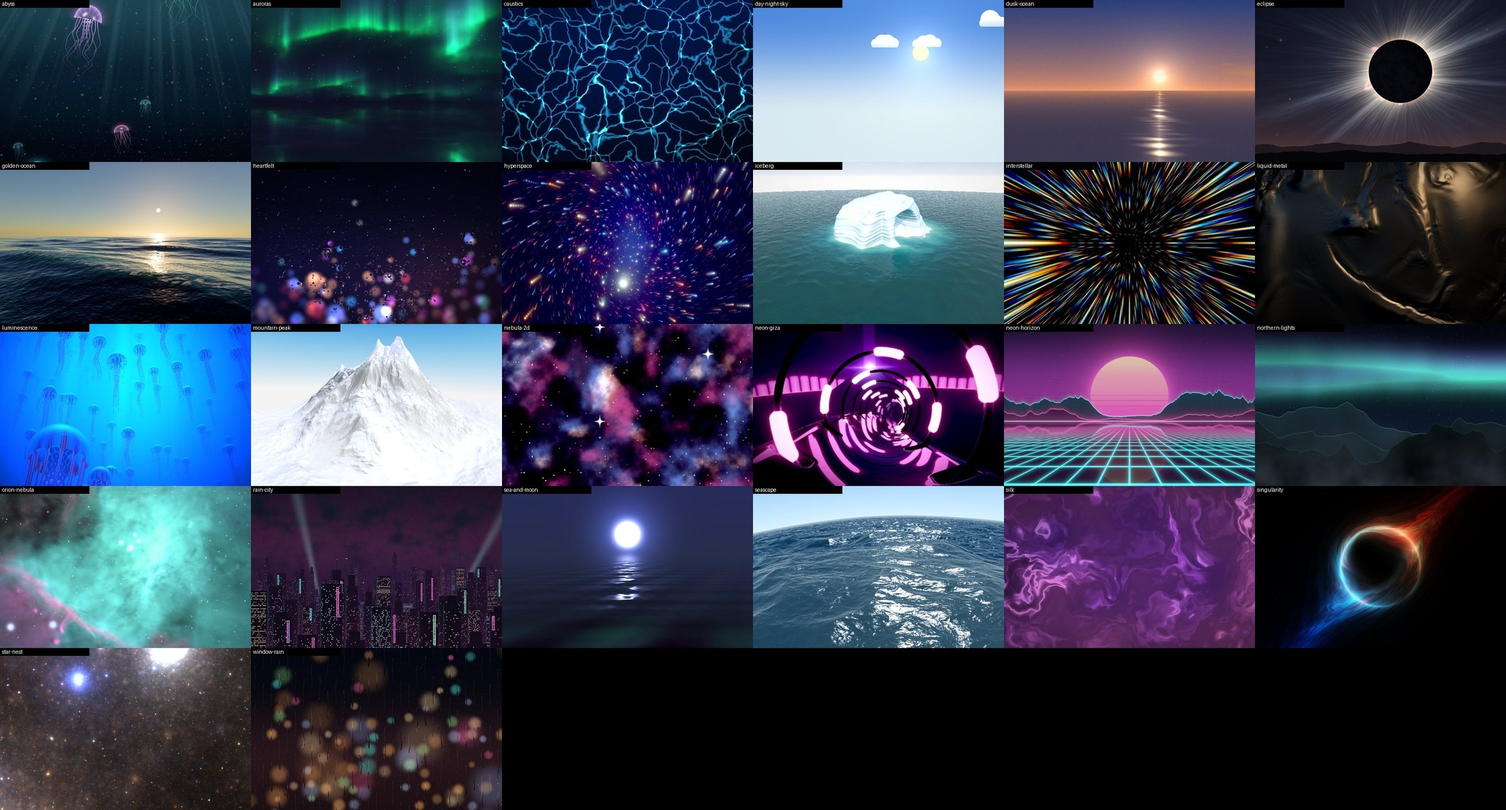
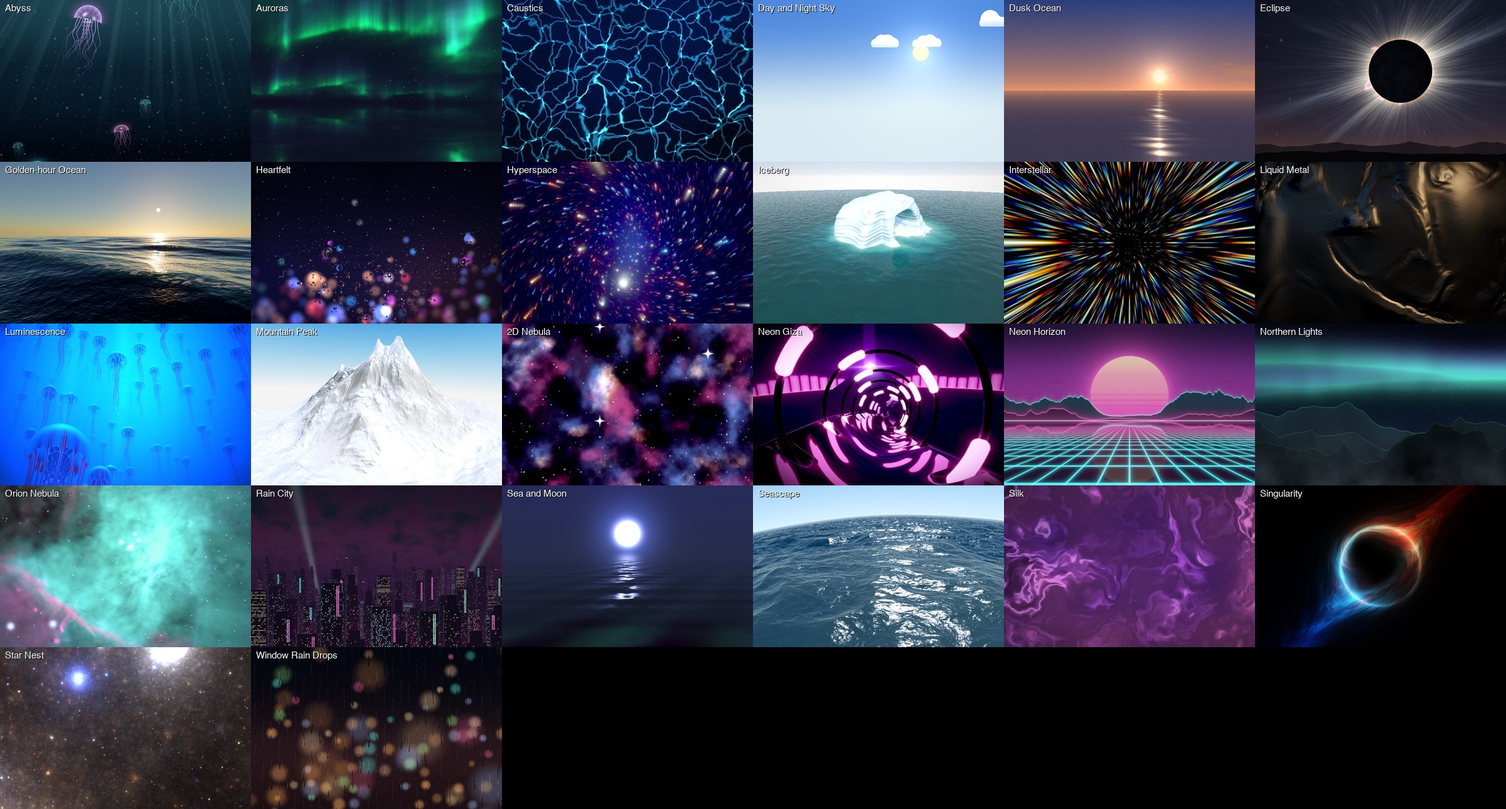
Licences: restore third-party notices and correct the record
From an audit that traced every scene's licence to its author's own
text. No scene's licence was found wrong; these are the gaps it found.

- Golden-hour Ocean: Benjamin Wrensch's MIT notice for the AgX tone-map
  fit is restored. Day and Night Sky: David Hoskins' copyright line is
  added, and the constructed copyright line is marked as such.
- The app's own sky shader uses Hoskins' hash32; it is now credited and
  his notice is in THIRD_PARTY_NOTICES.md.
- Orion Nebula is credited to Ekmel Ozdemir, who holds the copyright;
  the licence file already records how the project says it was written.
- A manifest can name other people's work inside a scene ("also"), and
  the notices list it: hashes, noise, a tone map, measured data.
- Pictures of the scenes carry the scenes' licences; the README says so
  under the contact sheet.
- The wording on the non-commercial scenes follows the licence's own
  test rather than "free and without advertising", and mentions
  share-alike. Scenes/README.md says the root MIT licence does not cover
  the scenes.
- Notes on what was changed are corrected in Neon Giza, Mountain Peak,
  Seascape, Silk, Liquid Metal, Heartfelt, Star Nest, Luminescence,
  Iceberg and Dusk Ocean.

diff --git a/scripts/update-notices.py b/scripts/update-notices.py
@@ -14,6 +14,9 @@ STYLES = [("nature", "Nature"), ("stylised", "Stylised"), ("abstract", "Abstract
 KNOWN_STYLES = {key for key, _ in STYLES}
 
 
+HOSKINS = (ROOT / "scripts" / "notices" / "hoskins-mit.txt").read_text()
+
+
 def scenes():
     found = []
     for manifest in sorted((ROOT / "Scenes").glob("*/scene.json")):
@@ -56,6 +59,20 @@ def notices(all_scenes):
         out += [f"## {title}", "", "| Scene | Author | Licence | Source |", "|---|---|---|---|"]
         out += [row(s) for s in group]
         out.append("")
+    extra = sorted((s for s in all_scenes if s.get("also")), key=lambda s: s["title"].lower())
+    if extra:
+        out += ["## Other people's work inside these scenes", "",
+                "Some scenes contain a piece by someone other than their author: a helper function, or measured data. "
+                "Each keeps its own terms, and its notice is in the scene's LICENSE file.", ""]
+        out += [f"- [{s['title']}](Scenes/{s['id']}/LICENSE): {s['also']}." for s in extra]
+        out.append("")
+    out += ["## Pictures of the scenes", "",
+            "Each scene's `preview.jpg`, and the sheet of them in `docs/library.jpg`, is a frame drawn by that scene "
+            "and is under that scene's licence. The frames of the non-commercial scenes are non-commercial too.", "",
+            "## In the app's own code", "",
+            "`Resources/Shaders.metal` uses one function, `hash32`, from \"Hash without Sine\" by David Hoskins "
+            "(https://www.shadertoy.com/view/4djSRW), under the MIT licence:", "",
+            "```", HOSKINS.rstrip(), "```", ""]
     return "\n".join(out).rstrip() + "\n"
 
 
@@ -66,9 +83,12 @@ def noncommercial(all_scenes):
            "with credit, for non-commercial purposes only, and adaptations must carry the same licence. "
            "The versions here are adaptations (ports to Metal Shading Language) offered under those same licences.",
            "",
-           "This app is free and carries no advertising, which is why it may include them. If you reuse this "
-           "project in anything commercial, build with `scripts/build-app.sh --permissive-only`, which leaves "
-           "these folders out, or delete them.", ""]
+           "The licences forbid use that is primarily intended for commercial advantage or payment. This app is "
+           "free, carries no advertising and takes no payment, and on that footing it includes them. If that "
+           "ever changes, or if you reuse this project in anything commercial, build with "
+           "`scripts/build-app.sh --permissive-only`, which leaves these folders out, or delete them. "
+           "The same goes for pictures of these scenes: each `preview.jpg` here, and their tiles in "
+           "`docs/library.jpg`, are frames drawn by the scenes and carry the same licences.", ""]
     if nc:
         out += ["| Scene | Author | Licence | Source |", "|---|---|---|---|"]
         out += [row(s).replace("](Scenes/", "](") for s in nc]

diff --git a/THIRD_PARTY_NOTICES.md b/THIRD_PARTY_NOTICES.md
@@ -20,7 +20,7 @@ The scenes below were written by other people and are included under their own l
 | [Luminescence](Scenes/luminescence/) | Martijn Steinrucken (BigWings) | `CC-BY-NC-SA-3.0` | [original](https://github.com/libretro/glsl-shaders/blob/master/procedural/bigwings-luminescence.glsl) |
 | [Mountain Peak](Scenes/mountain-peak/) | Alexander Alekseev (TDM) | `CC-BY-NC-SA-3.0` | [original](https://www.shadertoy.com/view/llK3WR) |
 | [Northern Lights](Scenes/northern-lights/) | Adil Kairolla (MacPaper Engine) | `MIT` | [original](https://github.com/adilkairolla/macpaper-engine/tree/main/Samples/Northern%20Lights.macpaper) |
-| [Orion Nebula](Scenes/orion-nebula/) | gke0op (Argus) | `MIT` | [original](https://github.com/gke0op/argus/blob/main/themes/Orion_Nebula.metal) |
+| [Orion Nebula](Scenes/orion-nebula/) | Ekmel Ozdemir (Argus) | `MIT` | [original](https://github.com/gke0op/argus/blob/main/themes/Orion_Nebula.metal) |
 | [Seascape](Scenes/seascape/) | Alexander Alekseev (TDM) | `CC-BY-NC-SA-3.0` | [original](https://www.shadertoy.com/view/Ms2SD1) |
 | [Star Nest](Scenes/star-nest/) | Pablo Roman Andrioli (Kali) | `MIT` | [original](https://www.shadertoy.com/view/XlfGRj) |
 
@@ -56,3 +56,51 @@ The scenes below were written by other people and are included under their own l
 | [Neon Horizon](Scenes/neon-horizon/) | Ilia Reingold (ShaderDesk) | `MIT` | [original](https://github.com/ilrein/shaderdesk/blob/main/Scenes/NeonHorizon.metal) |
 | [Rain City](Scenes/rain-city/) | Ilia Reingold (ShaderDesk) | `MIT` | [original](https://github.com/ilrein/shaderdesk/blob/main/Scenes/RainCity.metal) |
 | [Singularity](Scenes/singularity/) | XorDev | `MIT` | [original](https://github.com/XorDev/Singularity) |
+
+## Other people's work inside these scenes
+
+Some scenes contain a piece by someone other than their author: a helper function, or measured data. Each keeps its own terms, and its notice is in the scene's LICENSE file.
+
+- [Abyss](Scenes/abyss/LICENSE): hash functions by David Hoskins (MIT).
+- [Caustics](Scenes/caustics/LICENSE): simplex noise by Ashima Arts and Stefan Gustavson (MIT); a hash function by David Hoskins (MIT).
+- [Day and Night Sky](Scenes/day-night-sky/LICENSE): a hash function in the form of David Hoskins' (MIT).
+- [Eclipse](Scenes/eclipse/LICENSE): hash functions by David Hoskins (MIT).
+- [Golden-hour Ocean](Scenes/golden-ocean/LICENSE): the AgX tone-map fit by Benjamin Wrensch (MIT).
+- [Heartfelt](Scenes/heartfelt/LICENSE): a hash function its author credits to Dave Hoskins.
+- [Liquid Metal](Scenes/liquid-metal/LICENSE): a noise function in the manner of Inigo Quilez's (MIT).
+- [Luminescence](Scenes/luminescence/LICENSE): helpers its author credits to Dave Hoskins, Inigo Quilez and Mercury's hg_sdf.
+- [Neon Giza](Scenes/neon-giza/LICENSE): helpers by Inigo Quilez (MIT) and Sam Hocevar (WTFPL).
+- [Neon Horizon](Scenes/neon-horizon/LICENSE): hash functions by David Hoskins (MIT).
+- [Orion Nebula](Scenes/orion-nebula/LICENSE): measured data: VLT/MUSE maps, Weilbacher et al. 2015 (CC0 1.0); 3D dust map, Edenhofer et al. 2024 (CC BY 4.0); star positions from SIMBAD.
+- [Rain City](Scenes/rain-city/LICENSE): hash functions by David Hoskins (MIT).
+- [Silk](Scenes/silk/LICENSE): a domain-warp layout from an article by Inigo Quilez (MIT).
+
+## Pictures of the scenes
+
+Each scene's `preview.jpg`, and the sheet of them in `docs/library.jpg`, is a frame drawn by that scene and is under that scene's licence. The frames of the non-commercial scenes are non-commercial too.
+
+## In the app's own code
+
+`Resources/Shaders.metal` uses one function, `hash32`, from "Hash without Sine" by David Hoskins (https://www.shadertoy.com/view/4djSRW), under the MIT licence:
+
+```
+Copyright (c)2014 David Hoskins.
+
+Permission is hereby granted, free of charge, to any person obtaining a copy
+of this software and associated documentation files (the "Software"), to deal
+in the Software without restriction, including without limitation the rights
+to use, copy, modify, merge, publish, distribute, sublicense, and/or sell
+copies of the Software, and to permit persons to whom the Software is
+furnished to do so, subject to the following conditions:
+
+The above copyright notice and this permission notice shall be included in all
+copies or substantial portions of the Software.
+
+THE SOFTWARE IS PROVIDED "AS IS", WITHOUT WARRANTY OF ANY KIND, EXPRESS OR
+IMPLIED, INCLUDING BUT NOT LIMITED TO THE WARRANTIES OF MERCHANTABILITY,
+FITNESS FOR A PARTICULAR PURPOSE AND NONINFRINGEMENT. IN NO EVENT SHALL THE
+AUTHORS OR COPYRIGHT HOLDERS BE LIABLE FOR ANY CLAIM, DAMAGES OR OTHER
+LIABILITY, WHETHER IN AN ACTION OF CONTRACT, TORT OR OTHERWISE, ARISING FROM,
+OUT OF OR IN CONNECTION WITH THE SOFTWARE OR THE USE OR OTHER DEALINGS IN THE
+SOFTWARE.
+```

diff --git a/docs/SHADERS.md b/docs/SHADERS.md
@@ -34,6 +34,7 @@ The folder name is the scene's id: letters, digits, `-` and `_` only. `horizon`,
 | `style` | `nature`, `stylised`, `abstract`, `cosy` or `scifi`: the submenu it appears in. |
 | `maxFPS` | The most frames a second it is ever drawn at (1 to 60, default 20). The app lowers this itself on battery, when another app is in front, and in Low Power Mode: a scene set to 30 is drawn at 30 only while you are looking at the desktop on mains power, and at 15 behind another app. |
 | `scale` | Pixels drawn per point of screen (0.125 to 2, default 0.5). 0.5 means half the points each way, a sixteenth of a Retina display's pixels. Soft scenes look fine at 0.35 to 0.5; scenes with thin lines or small stars want 1. |
+| `also` | Optional. One line naming anyone else's work inside the scene and its terms, such as `hash functions by David Hoskins (MIT)`. It is printed in `THIRD_PARTY_NOTICES.md`; the notice itself goes in `LICENSE`. |
 | `channels` | Up to two image files in the folder, bound as `iChannel0` and `iChannel1`. Each may be at most 4096 pixels a side. A grey-scale image reads as grey in `.rgb`, as it would in GLSL. |
 
 ## The shader
@@ -130,7 +131,8 @@ At run time the app also watches each scene's real GPU time and lowers its resol
 
 ## Licences
 
-- Only bring in a scene if its author's licence lets it be redistributed, and quote that licence in `LICENSE` with a link to where it is stated. A licence on a host project's code does not cover the shaders it bundles; find the shader's own.
+- Only bring in a scene if its author's licence lets it be redistributed, and quote that licence in `LICENSE` with a link to where it is stated. A licence on a host project's code does not cover shaders that project merely collects from elsewhere; for those, find the shader's own. It does cover a shader its author wrote for that project.
 - Keep the author's header comment at the top of `main.metal`, and add a line saying what you changed.
-- On Shadertoy, a shader whose author states no licence falls under the site's default (CC BY-NC-SA 3.0). Do not rely on that default for a bundled scene; import only shaders whose own text states a licence.
+- On Shadertoy, a shader whose author states no licence is generally understood to fall under the site's default (CC BY-NC-SA 3.0). Do not rely on that default for a bundled scene; import only shaders whose own text states a licence.
+- If a shader contains a piece by someone else (a hash, a noise function, a tone map, data), keep or restore that person's notice in `LICENSE` and name it in the manifest's `also` field.
 - Non-commercial scenes are welcome. They are marked in the menu, listed in `Scenes/NONCOMMERCIAL.md`, and left out of `--permissive-only` builds.

diff --git a/README.md b/README.md
@@ -24,6 +24,8 @@ It also carries a library of 26 scenes by other authors, ported from open collec
 
 ![The 26 imported scenes](docs/library.jpg)
 
+*A frame from each scene. Every frame is under its scene's licence; the Auroras, Heartfelt, Luminescence, Mountain Peak and Seascape frames are CC BY-NC-SA 3.0.*
+
 Every one of these was written by someone else and published under a licence that allows it to be shared. Each has been ported to Metal, credited, and tuned so that it stays within this app's energy budget. They are grouped in the menu as Nature, Stylised, Abstract, Cosy and Sci-Fi; the menu shows each scene's author and licence and links to the original.
 
 [THIRD_PARTY_NOTICES.md](THIRD_PARTY_NOTICES.md) lists them all. Five may not be used commercially; see [Licences](#licences).
@@ -125,8 +127,8 @@ Bug reports, new scenes and reports from hardware that has not been tried are al
 
 ## Licences
 
-The app's own code is under the [MIT licence](LICENSE).
+The app's own code, which is everything outside `Scenes/`, is under the [MIT licence](LICENSE). That licence does not cover the scenes.
 
 The imported scenes keep their authors' licences: MIT, CC0, or Creative Commons Attribution-NonCommercial-ShareAlike. Each scene's folder under `Scenes/` holds its licence, its credit and a note of what was changed in porting it (and, where a scene uses a small helper function by someone else, that person's notice too), and [THIRD_PARTY_NOTICES.md](THIRD_PARTY_NOTICES.md) lists them together.
 
-Five scenes (Auroras, Heartfelt, Luminescence, Mountain Peak and Seascape) are non-commercial: free to use, share and adapt with credit, but not for commercial purposes. This app is free and carries no advertising, which is why it may include them. If you reuse this project in anything commercial, build with `./scripts/build-app.sh --permissive-only`, which leaves them out; [Scenes/NONCOMMERCIAL.md](Scenes/NONCOMMERCIAL.md) has the details.
+Five scenes (Auroras, Heartfelt, Luminescence, Mountain Peak and Seascape) are non-commercial: free to use, share and adapt with credit, but not for commercial purposes, and anything adapted from them must carry the same licence. This app is free, carries no advertising and takes no payment, and on that footing it includes them. If that ever changes, or if you reuse this project in anything commercial, build with `./scripts/build-app.sh --permissive-only`, which leaves them out; [Scenes/NONCOMMERCIAL.md](Scenes/NONCOMMERCIAL.md) has the details.

diff --git a/Scenes/NONCOMMERCIAL.md b/Scenes/NONCOMMERCIAL.md
@@ -2,7 +2,7 @@
 
 These scenes are under Creative Commons non-commercial licences. You may use, share and adapt them with credit, for non-commercial purposes only, and adaptations must carry the same licence. The versions here are adaptations (ports to Metal Shading Language) offered under those same licences.
 
-This app is free and carries no advertising, which is why it may include them. If you reuse this project in anything commercial, build with `scripts/build-app.sh --permissive-only`, which leaves these folders out, or delete them.
+The licences forbid use that is primarily intended for commercial advantage or payment. This app is free, carries no advertising and takes no payment, and on that footing it includes them. If that ever changes, or if you reuse this project in anything commercial, build with `scripts/build-app.sh --permissive-only`, which leaves these folders out, or delete them. The same goes for pictures of these scenes: each `preview.jpg` here, and their tiles in `docs/library.jpg`, are frames drawn by the scenes and carry the same licences.
 
 | Scene | Author | Licence | Source |
 |---|---|---|---|

diff --git a/Scenes/README.md b/Scenes/README.md
@@ -1,0 +1,8 @@
+# Scenes
+
+Each folder here is one scene, written by someone else and kept under its author's own licence. The MIT licence at the top of this repository covers the app's code; it does not cover these folders.
+
+- A scene's `LICENSE` file holds its licence text, its credit, where the licence is stated, and what was changed in porting it.
+- [THIRD_PARTY_NOTICES.md](../THIRD_PARTY_NOTICES.md) lists them all.
+- [NONCOMMERCIAL.md](NONCOMMERCIAL.md) lists the ones that may not be used commercially.
+- [docs/SHADERS.md](../docs/SHADERS.md) describes the format and how to add one.
